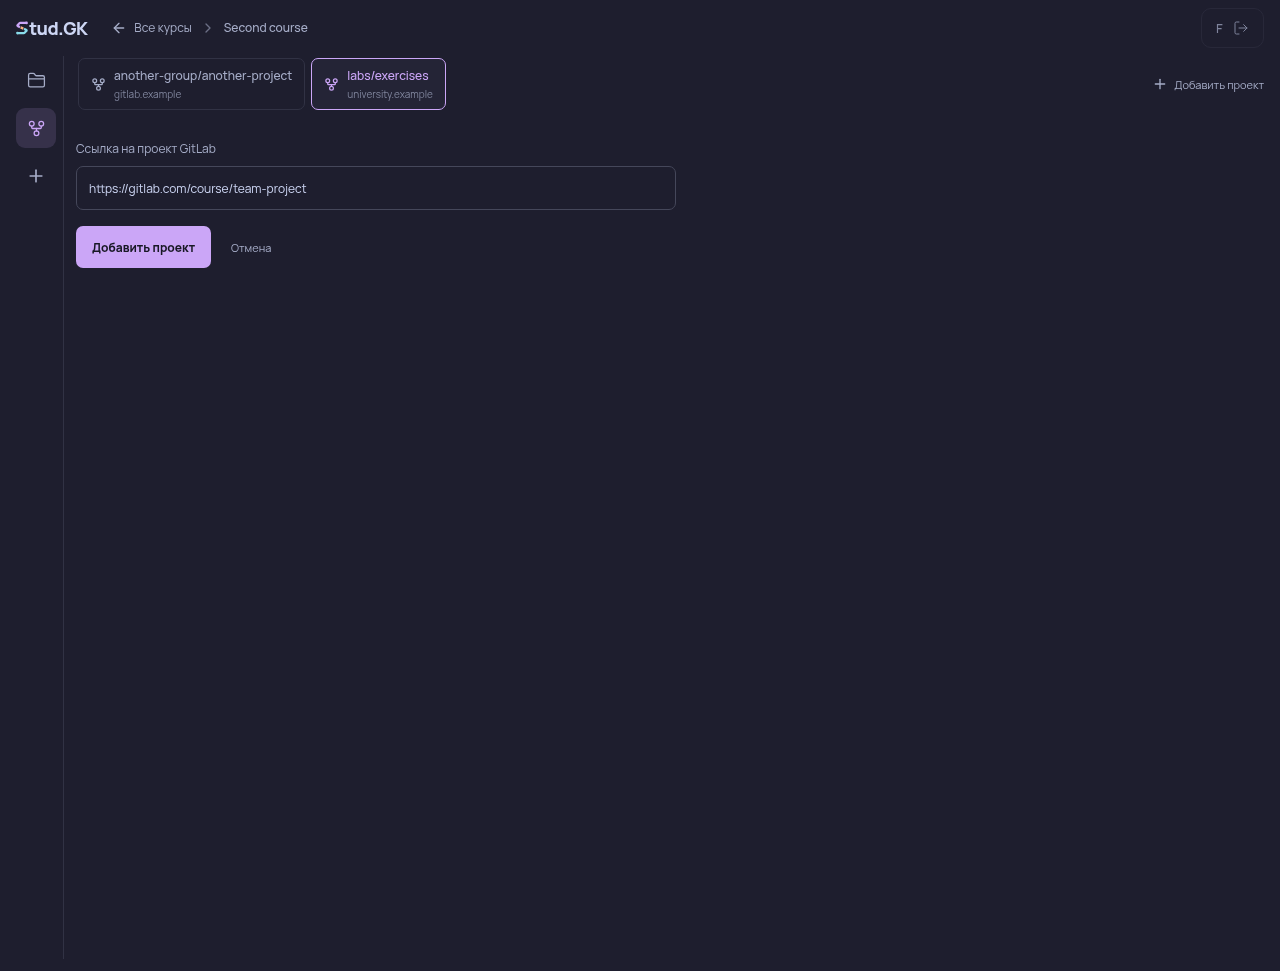
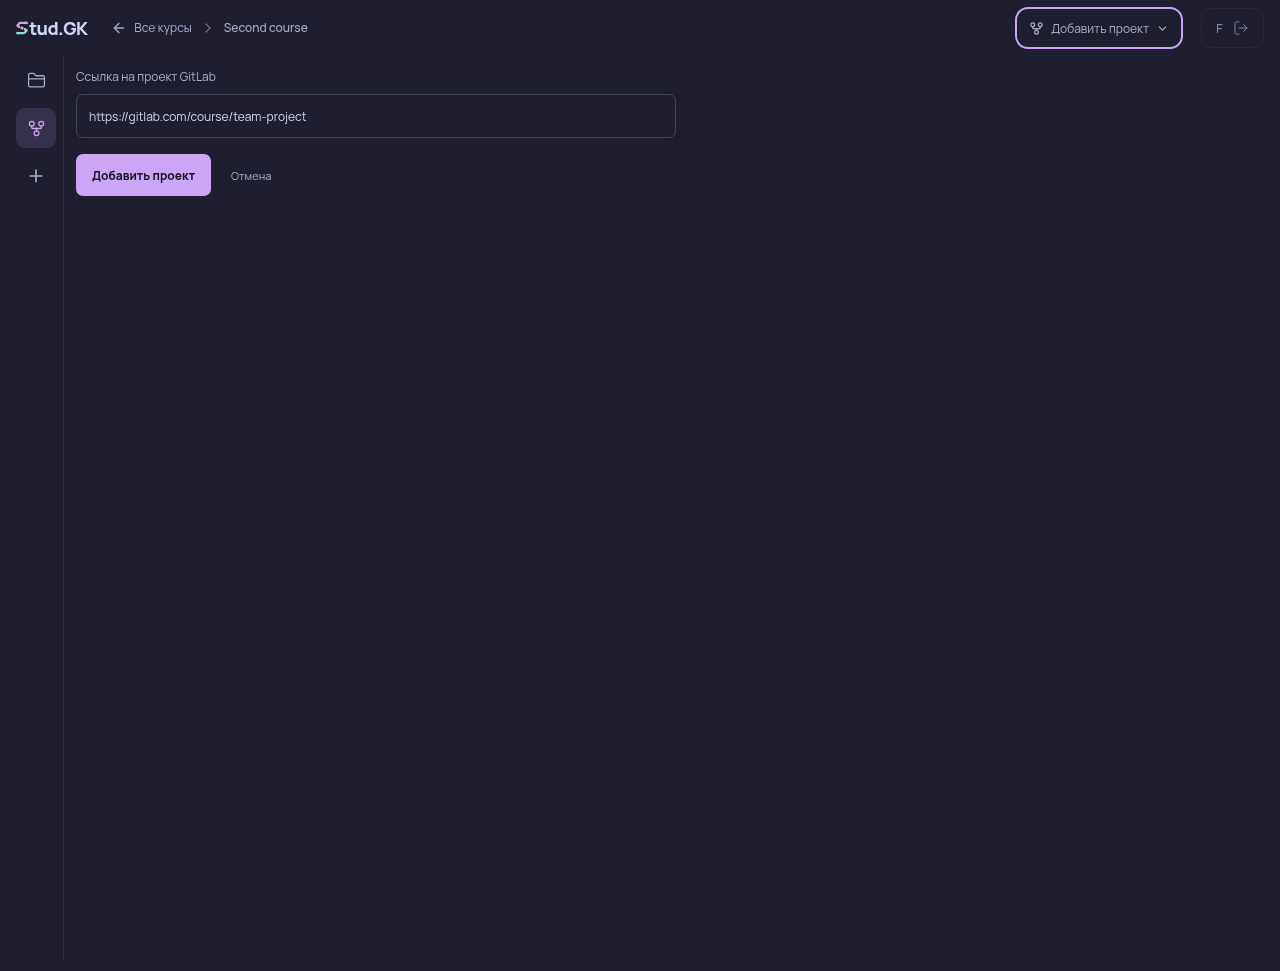
Move GitLab project selection into the course toolbar

diff --git a/src/gitlab.css b/src/gitlab.css
@@ -1,6 +1,6 @@
 .gitlab-section { display: flex; flex: 1; flex-direction: column; min-width: 0; min-height: 0; }
 .gitlab-local-toolbar { display: flex; justify-content: flex-end; margin-bottom: 10px; }
-.gitlab-toolbar { flex-shrink: 0; }
+.gitlab-toolbar { display: flex; align-items: center; gap: 4px; flex-shrink: 0; min-width: 0; }
 .gitlab-tools { position: relative; }
 .gitlab-tools > button { display: grid; place-items: center; width: 30px; height: 30px; border-radius: 8px; color: var(--subtext); }
 .gitlab-tools > button:hover, .gitlab-tools > button[aria-expanded="true"] { color: var(--text); background: var(--surface0); }
@@ -192,16 +192,20 @@
   .gitlab-history-pane { padding-right: 0; }
 }
 
-.gitlab-project-bar { display: flex; flex-wrap: wrap; align-items: center; gap: 10px; margin-bottom: 16px; flex-shrink: 0; }
-.gitlab-project-list { display: flex; flex: 1; gap: 6px; min-width: 0; overflow-x: auto; padding: 2px; }
-.gitlab-project-tab { display: flex; align-items: center; gap: 8px; flex-shrink: 0; max-width: 300px; padding: 8px 12px; border: 1px solid var(--surface0); border-radius: 7px; color: var(--subtext); text-align: left; }
-.gitlab-project-tab > span { display: flex; flex-direction: column; gap: 3px; min-width: 0; }
-.gitlab-project-tab strong, .gitlab-project-tab small { overflow: hidden; text-overflow: ellipsis; white-space: nowrap; }
-.gitlab-project-tab strong { font-size: 12px; font-weight: 500; }
-.gitlab-project-tab small { font-size: 10px; color: var(--muted); }
-.gitlab-project-tab svg { flex-shrink: 0; }
-.gitlab-project-tab:hover { background: var(--surface); }
-.gitlab-project-tab[aria-pressed="true"] { color: var(--mauve); border-color: var(--mauve); background: var(--surface); }
-.gitlab-add-project { display: inline-flex; align-items: center; gap: 6px; min-height: 40px; white-space: nowrap; }
+.gitlab-project-picker { position: relative; min-width: 0; }
+.gitlab-project-trigger { display: flex; align-items: center; gap: 7px; max-width: min(200px, 32vw); height: 30px; padding: 0 8px; border-radius: 7px; color: var(--subtext); font-size: 12px; }
+.gitlab-project-trigger span { min-width: 0; overflow: hidden; text-overflow: ellipsis; white-space: nowrap; }
+.gitlab-project-trigger svg { flex-shrink: 0; }
+.gitlab-project-trigger:hover, .gitlab-project-trigger[aria-expanded="true"] { color: var(--text); background: var(--surface0); }
+.gitlab-project-menu { position: absolute; z-index: 20; top: calc(100% + 8px); right: 0; width: min(320px, calc(100vw - 32px)); max-height: min(400px, 70dvh); overflow-y: auto; padding: 5px; border: 1px solid var(--surface1); border-radius: 9px; background: var(--surface); box-shadow: 0 10px 30px #11111b60; }
+.gitlab-project-menu > button { display: flex; align-items: center; gap: 9px; width: 100%; min-height: 40px; padding: 10px; border-radius: 5px; color: var(--subtext); text-align: left; font-size: 12px; }
+.gitlab-project-menu > button > span { display: flex; flex: 1; flex-direction: column; gap: 4px; min-width: 0; }
+.gitlab-project-menu strong, .gitlab-project-menu small { overflow-wrap: anywhere; }
+.gitlab-project-menu strong { font-size: 12px; font-weight: 500; }
+.gitlab-project-menu small { font-size: 11px; color: var(--muted); }
+.gitlab-project-menu svg { flex-shrink: 0; }
+.gitlab-project-menu > button:hover { background: var(--surface0); color: var(--text); }
+.gitlab-project-menu > button:focus-visible { outline-offset: -2px; }
+.gitlab-project-menu > button[aria-checked="true"] { color: var(--mauve); }
+.gitlab-project-menu > .gitlab-add-project { border-top: 1px solid var(--surface0); border-radius: 0 0 5px 5px; margin-top: 4px; }
 .gitlab-project-view { display: flex; flex: 1; flex-direction: column; min-width: 0; min-height: 0; }
-@media (max-width: 650px) { .gitlab-project-list { flex-basis: 100%; } }

diff --git a/src/GitlabProjectPicker.tsx b/src/GitlabProjectPicker.tsx
@@ -1,0 +1,55 @@
+import { useEffect, useId, useRef, useState } from "react";
+import { Check, ChevronDown, GitFork, Plus } from "lucide-react";
+import type { GitlabProject } from "../server/gitlab.js";
+
+export function GitlabProjectPicker({ projects, selected, adding, onSelect, onAdd }: {
+  projects: GitlabProject[]; selected: GitlabProject; adding: boolean;
+  onSelect: (id: string) => void; onAdd: () => void;
+}) {
+  const [open, setOpen] = useState(false);
+  const root = useRef<HTMLDivElement>(null), button = useRef<HTMLButtonElement>(null), menu = useRef<HTMLDivElement>(null);
+  const id = useId();
+  function action(callback: () => void) { setOpen(false); button.current?.focus(); callback(); }
+  useEffect(() => {
+    if (!open) return;
+    const active = menu.current?.querySelector<HTMLElement>('[aria-checked="true"]')
+      ?? menu.current?.querySelector<HTMLElement>('[role="menuitemradio"]');
+    active?.focus();
+    function outside(event: PointerEvent) { if (!root.current?.contains(event.target as Node)) setOpen(false); }
+    function escape(event: KeyboardEvent) {
+      if (event.key === "Escape") { event.preventDefault(); setOpen(false); button.current?.focus(); }
+    }
+    document.addEventListener("pointerdown", outside); document.addEventListener("keydown", escape);
+    return () => { document.removeEventListener("pointerdown", outside); document.removeEventListener("keydown", escape); };
+  }, [open]);
+  return <div ref={root} className="gitlab-project-picker" data-project-count={projects.length} onBlur={(event) => {
+    if (!event.currentTarget.contains(event.relatedTarget as Node | null)) setOpen(false);
+  }}>
+    <button ref={button} type="button" className="gitlab-project-trigger" aria-label="Выбрать проект GitLab" title={selected.url}
+      aria-haspopup="menu" aria-expanded={open} aria-controls={open ? id : undefined} onClick={() => setOpen(!open)}
+      onKeyDown={(event) => { if (["ArrowDown", "ArrowUp"].includes(event.key)) { event.preventDefault(); setOpen(true); } }}>
+      <GitFork size={15} aria-hidden="true" /><span>{adding ? "Добавить проект" : new URL(selected.url).pathname.split("/").pop()}</span>
+      <ChevronDown size={13} aria-hidden="true" />
+    </button>
+    {open && <div ref={menu} id={id} className="gitlab-project-menu" role="menu" aria-label="Проекты GitLab" onKeyDown={(event) => {
+      const items = [...menu.current!.querySelectorAll<HTMLButtonElement>("button")];
+      const current = items.indexOf(document.activeElement as HTMLButtonElement);
+      if (current >= 0 && ["Enter", " "].includes(event.key)) { event.preventDefault(); items[current].click(); return; }
+      const next = event.key === "ArrowDown" ? (current + 1) % items.length : event.key === "ArrowUp" ? (current - 1 + items.length) % items.length
+        : event.key === "Home" ? 0 : event.key === "End" ? items.length - 1 : null;
+      if (next !== null) { event.preventDefault(); items[next]?.focus(); }
+    }}>
+      {projects.map((project) => {
+        const address = new URL(project.url);
+        return <button key={project.id} type="button" role="menuitemradio" aria-checked={!adding && selected.id === project.id}
+          title={project.url} onClick={() => action(() => onSelect(project.id))}>
+          <GitFork size={15} aria-hidden="true" /><span><strong>{address.pathname.slice(1)}</strong><small>{address.host}</small></span>
+          {!adding && selected.id === project.id && <Check size={15} aria-hidden="true" />}
+        </button>;
+      })}
+      <button className="gitlab-add-project" type="button" role="menuitem" onClick={() => action(onAdd)}>
+        <Plus size={16} aria-hidden="true" />Добавить проект
+      </button>
+    </div>}
+  </div>;
+}

diff --git a/src/GitlabProject.tsx b/src/GitlabProject.tsx
@@ -1,9 +1,10 @@
 import { useCallback, useState, type FormEvent } from "react";
 import { createPortal } from "react-dom";
-import { GitFork, LoaderCircle, Plus } from "lucide-react";
+import { LoaderCircle } from "lucide-react";
 import { gitlabProjectList, normalizeGitlabProject, type GitlabProject as Project } from "../server/gitlab.js";
 import { GitlabConnection } from "./GitlabConnection";
 import { GitlabRepository } from "./GitlabRepository";
+import { GitlabProjectPicker } from "./GitlabProjectPicker";
 import { GitlabSettings } from "./GitlabSettings";
 import "./gitlab.css";
 
@@ -64,21 +65,10 @@ export function GitlabProject({ courseId, projects: savedProjects, demo, onSave,
     if (next) setSelectedId((url ? next.find((item) => item.url === url) : next[0])?.id ?? null);
     setAdding(false);
   }
+  const picker = project ? <GitlabProjectPicker projects={projects} selected={project} adding={adding}
+    onSelect={(id) => { setSelectedId(id); setAdding(false); }} onAdd={() => setAdding(true)} /> : null;
   return <section className="gitlab-section" aria-label="GitLab">
-    {projects.length > 0 && <div className="gitlab-project-bar">
-      <div className="gitlab-project-list" role="group" aria-label="Проекты GitLab">
-        {projects.map((item) => {
-          const address = new URL(item.url);
-          return <button key={item.id} type="button" className="gitlab-project-tab" title={item.url}
-            aria-pressed={!adding && project?.id === item.id} onClick={() => { setSelectedId(item.id); setAdding(false); }}>
-            <GitFork size={15} aria-hidden="true" /><span><strong>{address.pathname.slice(1)}</strong><small>{address.host}</small></span>
-          </button>;
-        })}
-      </div>
-      <button className="text-button gitlab-add-project" type="button" aria-expanded={adding} onClick={() => setAdding(true)}>
-        <Plus size={16} aria-hidden="true" />Добавить проект
-      </button>
-    </div>}
+    {picker && (toolbarTarget ? createPortal(picker, toolbarTarget) : <div className="gitlab-local-toolbar">{picker}</div>)}
     {(!projects.length || adding) ? <ProjectForm onSave={(url) => save(url)} onCancel={projects.length ? () => setAdding(false) : undefined} />
       : project && <ProjectView key={`${project.id}:${project.url}`} courseId={courseId} project={project} demo={demo}
         onSave={(url) => save(url, project.id)} toolbarTarget={toolbarTarget} />}
